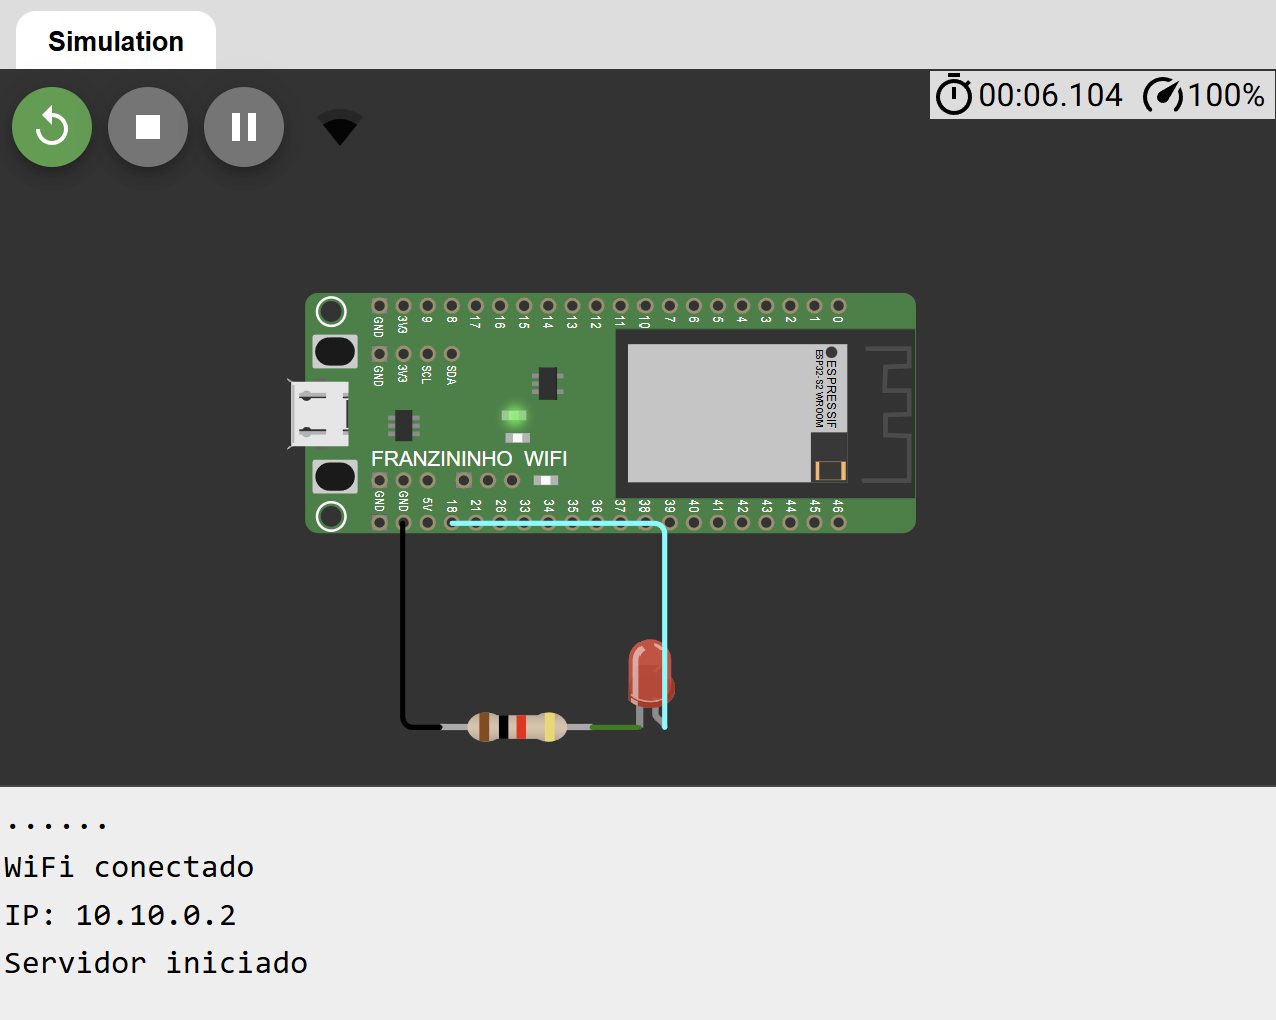
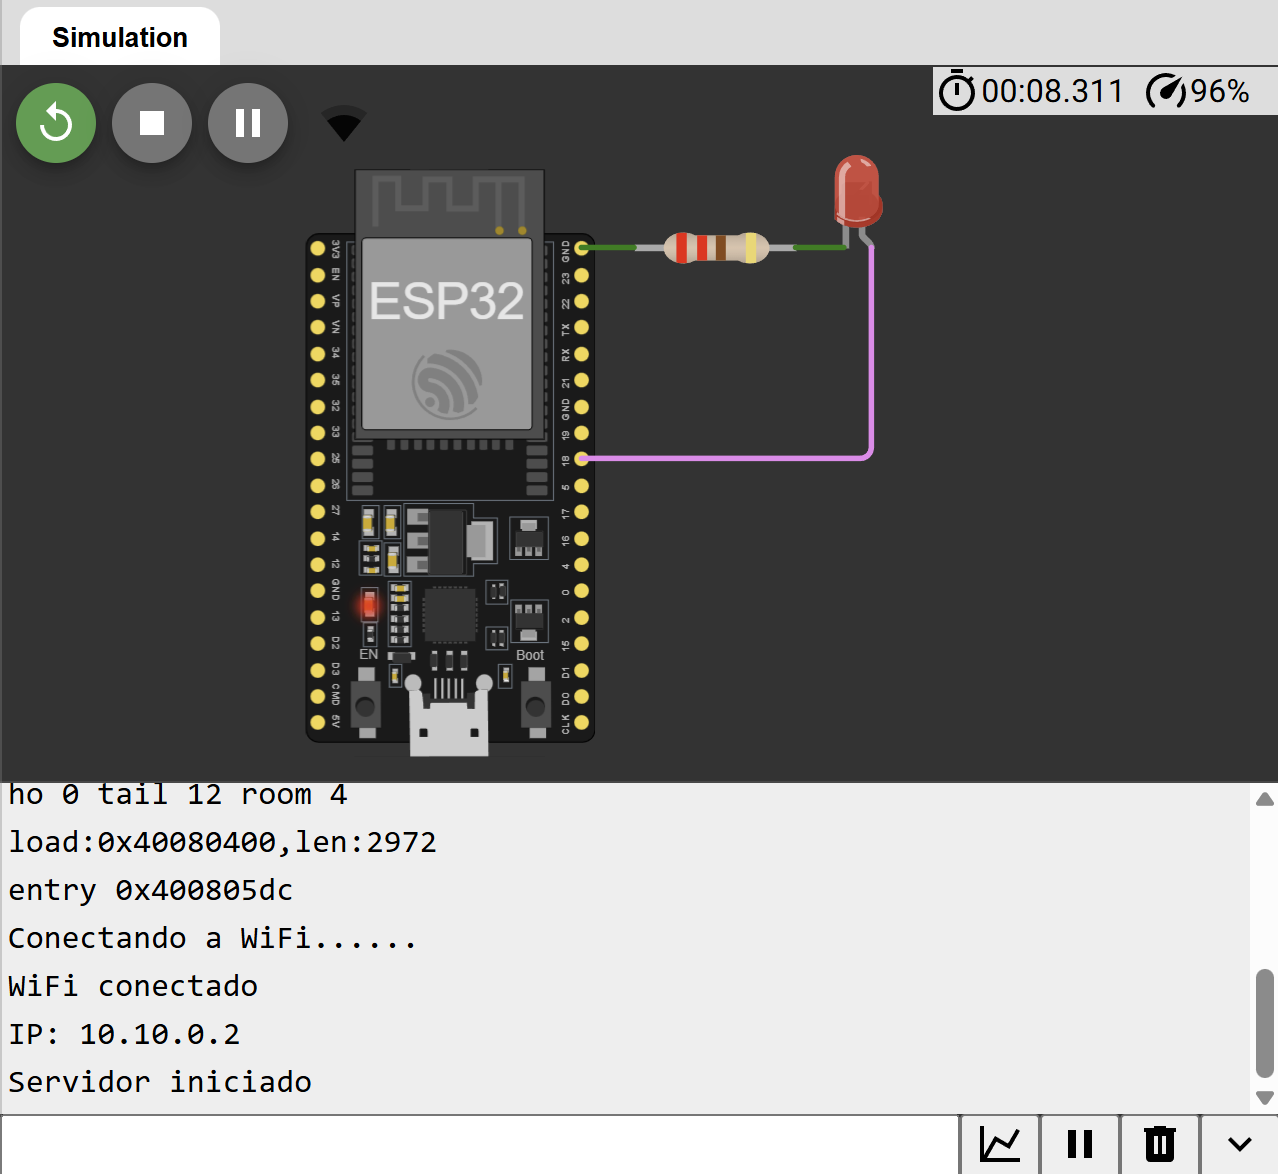
feat: update README.md and screenshot-circuito.png

Changed region(s): [[0.0, 0.0, 1.0, 0.9725], [0.7335, 0.9422, 0.9475, 1.0], [0.9781, 0.8206, 1.0, 0.9422]]

diff --git a/04-control-remoto-led/docs/README.md b/04-control-remoto-led/docs/README.md
@@ -80,7 +80,7 @@ Cuando un usuario accede al dashboard web:
 🔗 Simulación:
 
 ```text
-https://wokwi.com/projects/467198559050520577
+https://wokwi.com/projects/468304222189101057
 ```
 
 ---